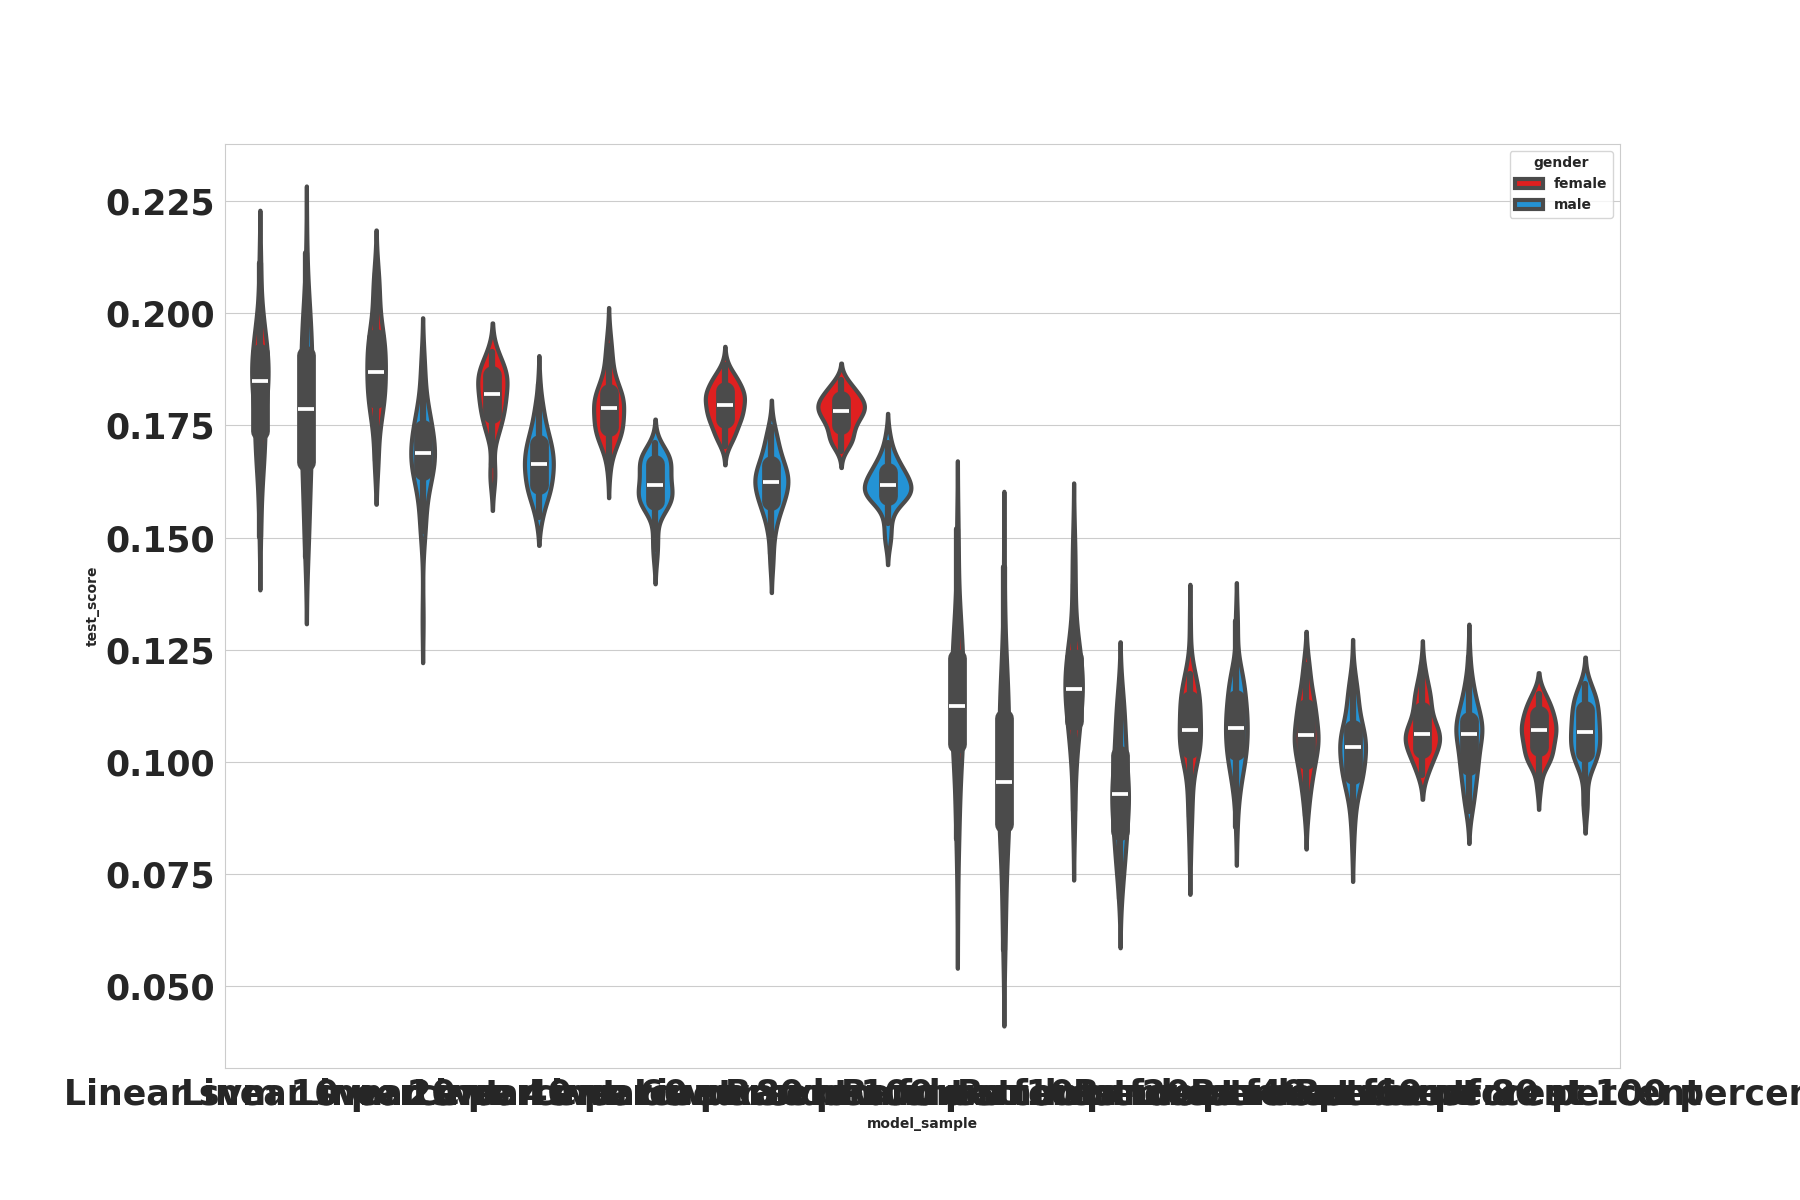
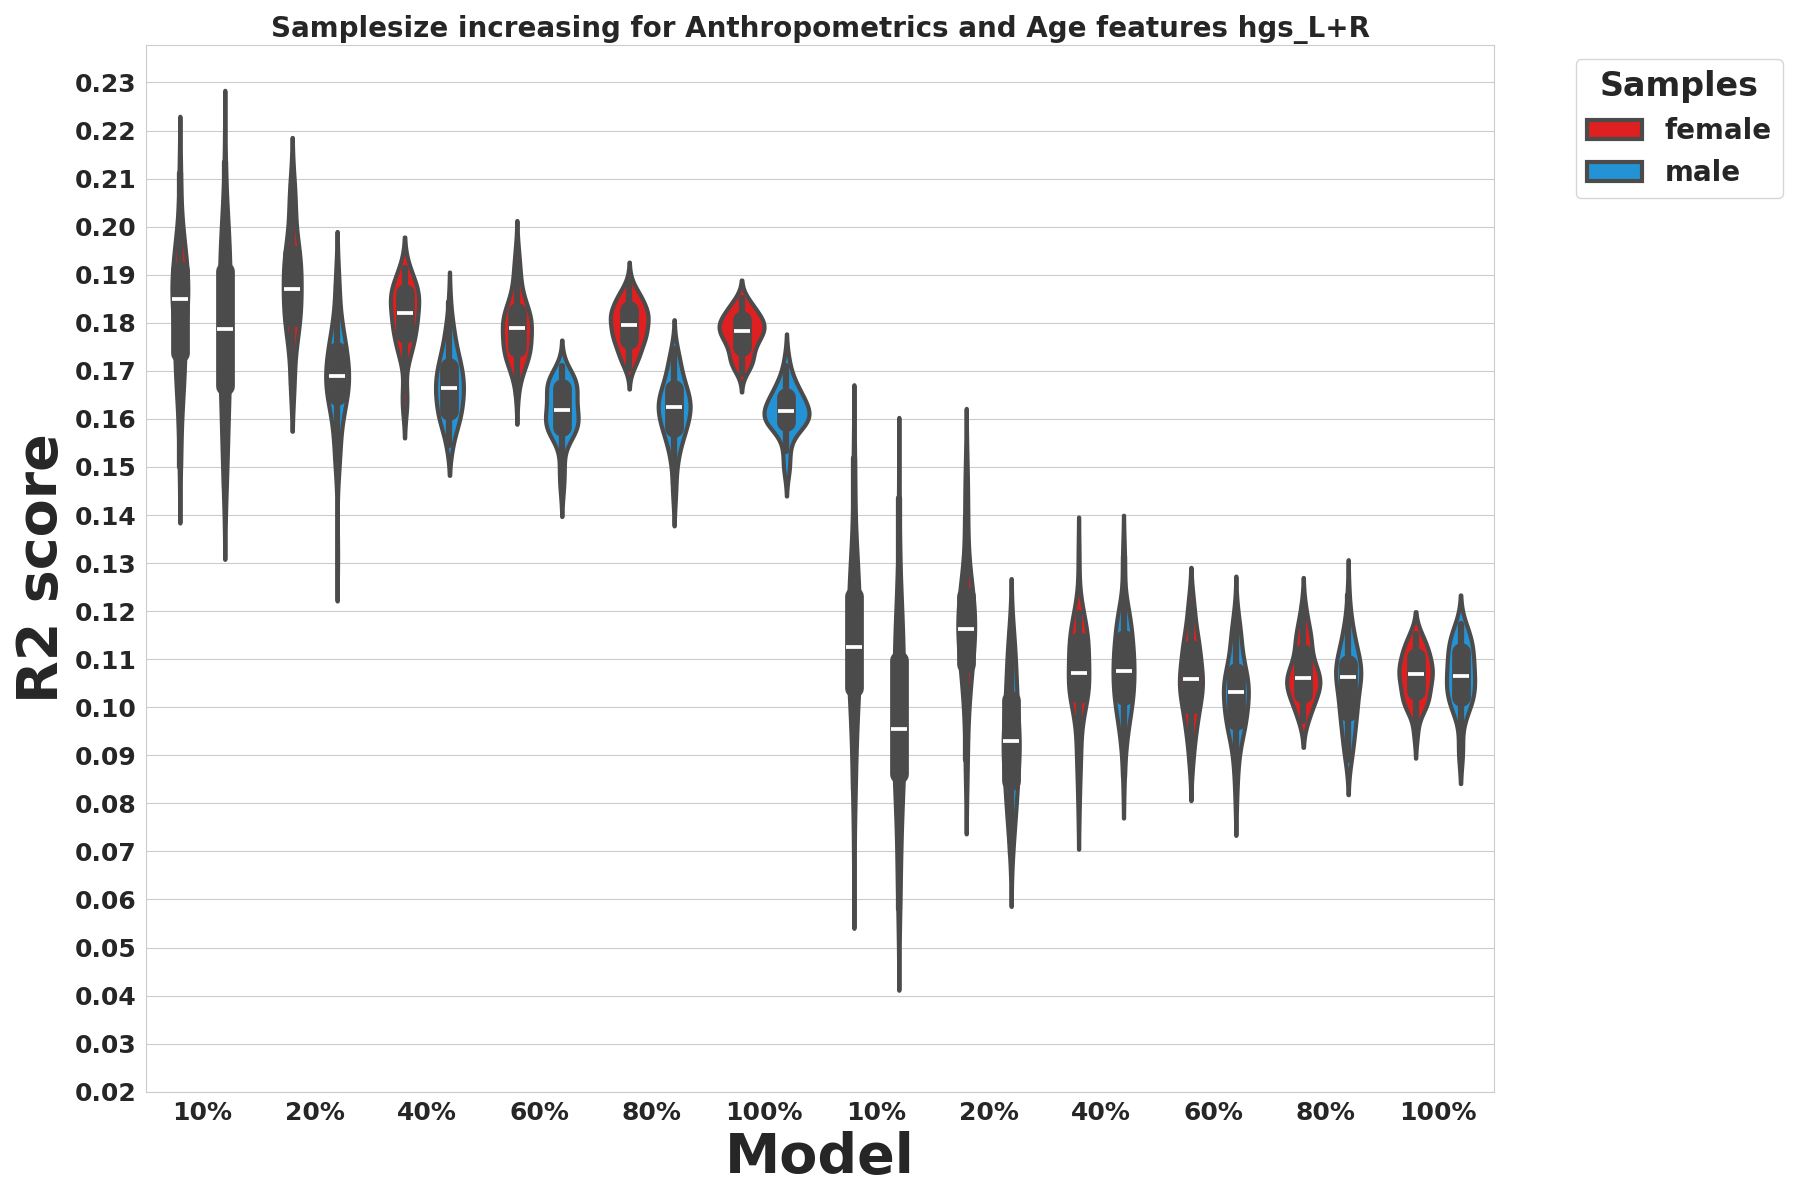
Make plots for first paper

diff --git a/exec/4_samplesize_increasing_on_data/plots/violin_plots/plot_multi_samplesize_by_gender.py b/exec/4_samplesize_increasing_on_data/plots/violin_plots/plot_multi_samplesize_by_gender.py
@@ -91,32 +91,32 @@ custom_palette = {'female': 'red', 'male': '#069AF3'}
 
 fig = plt.figure(figsize=(18,12))
 
-# plt.rcParams.update({"font.weight": "bold", 
-#                      "axes.labelweight": "bold",
-#                      "ytick.labelsize": 25,
-#                      "xtick.labelsize": 25})
+plt.rcParams.update({"font.weight": "bold", 
+                     "axes.labelweight": "bold",
+                     "ytick.labelsize": 25,
+                     "xtick.labelsize": 25})
 
 ax = sns.set_style("whitegrid")
 ax = sns.violinplot(data=df_combined_models_scores, x="model_sample", y="test_score", hue='gender', palette=custom_palette, linewidth=3)
 
-# plt.title(f"Samplesize increasing for Anthropometrics and Age features {target}", fontsize=20, fontweight="bold")
+plt.title(f"Samplesize increasing for Anthropometrics and Age features {target}", fontsize=20, fontweight="bold")
 
-# plt.xlabel("Model", fontsize=40, fontweight="bold")
-# plt.ylabel("R2 score", fontsize=40, fontweight="bold")
+plt.xlabel("Model", fontsize=40, fontweight="bold")
+plt.ylabel("R2 score", fontsize=40, fontweight="bold")
 
-# ymin, ymax = plt.ylim()
-# y_step_value = 0.01
-# plt.yticks(np.arange(round(ymin/0.01)*.01-y_step_value, round(ymax/0.01)*.01, 0.01), fontsize=18, weight='bold')
+ymin, ymax = plt.ylim()
+y_step_value = 0.01
+plt.yticks(np.arange(round(ymin/0.01)*.01-y_step_value, round(ymax/0.01)*.01, 0.01), fontsize=18, weight='bold')
 
 # Change x-axis tick labels
-# new_xticklabels = ["10%", "20%", "40%", "60%", "80%", "100%", "10%", "20%", "40%", "60%", "80%", "100%"]  # Replace with your desired labels
-# ax.set_xticklabels(new_xticklabels, fontsize=18, weight='bold')
+new_xticklabels = ["10%", "20%", "40%", "60%", "80%", "100%", "10%", "20%", "40%", "60%", "80%", "100%"]  # Replace with your desired labels
+ax.set_xticklabels(new_xticklabels, fontsize=18, weight='bold')
 
 
 # Place legend outside the plot
-# plt.legend(title="Samples", title_fontsize='24', fontsize='20', bbox_to_anchor=(1.05, 1), loc='upper left')
+plt.legend(title="Samples", title_fontsize='24', fontsize='20', bbox_to_anchor=(1.05, 1), loc='upper left')
 
-# plt.tight_layout()  # Adjust layout to prevent cropping
+plt.tight_layout()  # Adjust layout to prevent cropping
 
 plt.show()
 plt.savefig(f"gender_specified_{model_name}_{target}_violin_1.png")
